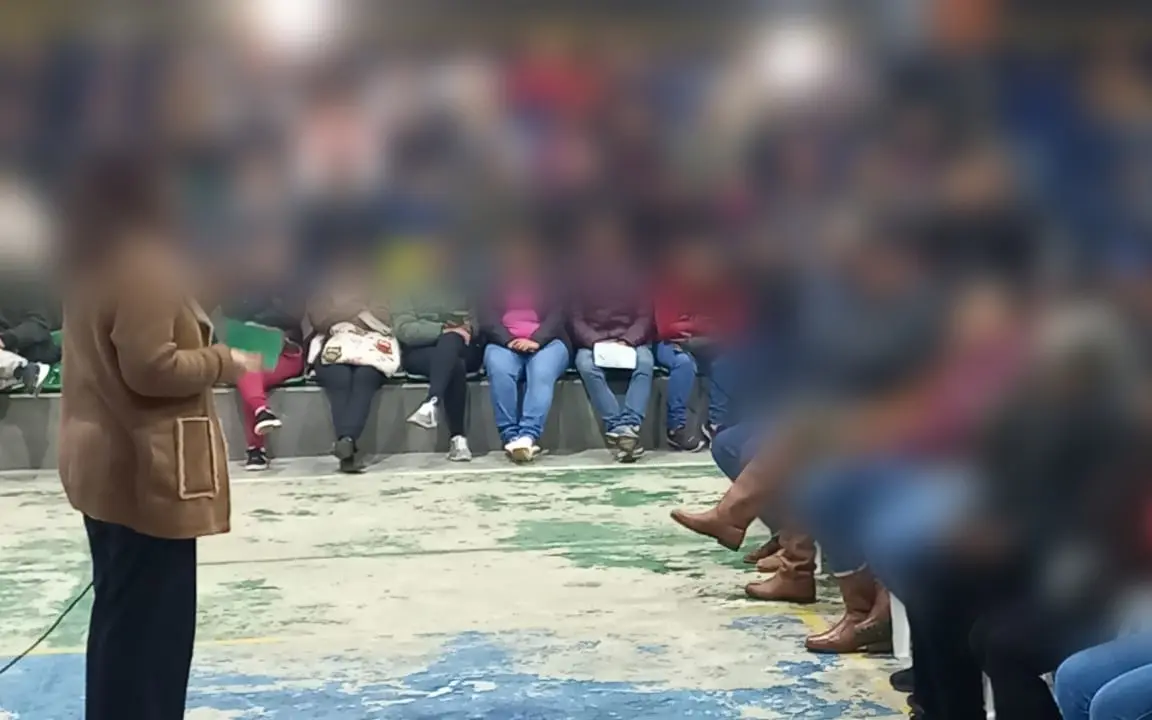
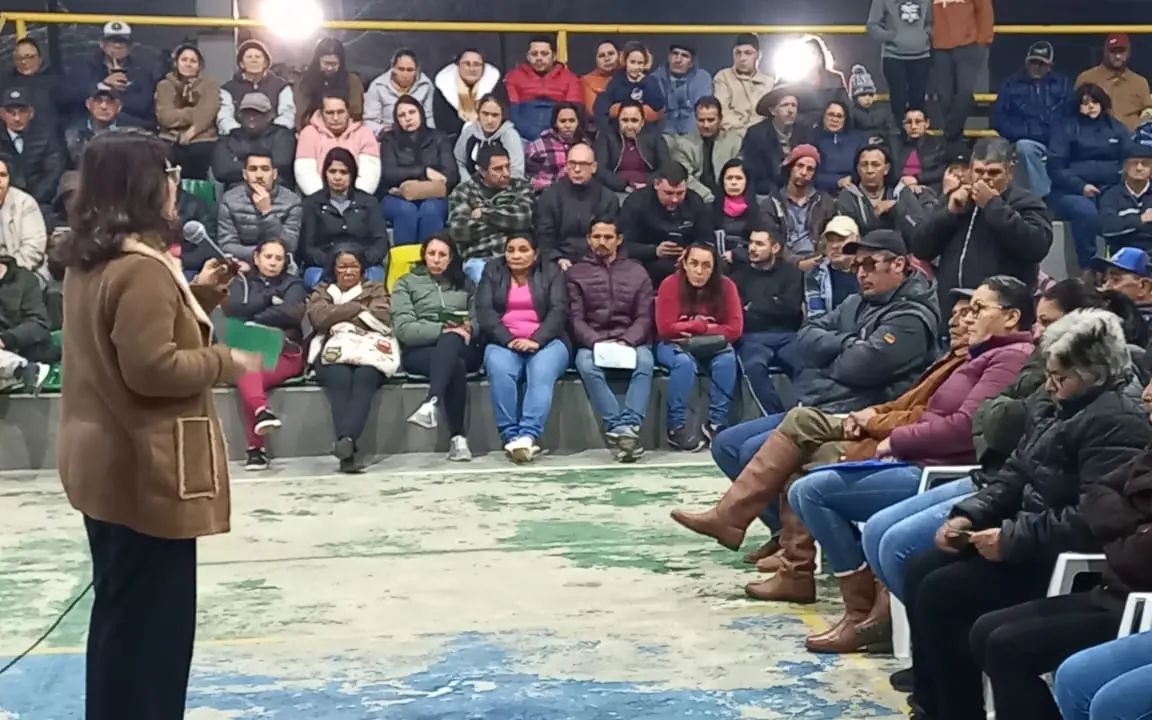
Portfólio: foto do Bairro Frigorífico sem desfoque
Claude-Session: https://claude.ai/code/session_01PN8HWynfHnkAmHP4rgqqho

diff --git a/index.html b/index.html
@@ -422,7 +422,7 @@
           </article>
 
           <article class="pf-card" data-cat="reurb">
-            <img class="pf-media" src="assets/img/bairro-frigorifico-640.webp" srcset="assets/img/bairro-frigorifico-640.webp 640w, assets/img/bairro-frigorifico-960.webp 960w" sizes="(max-width: 640px) 100vw, (max-width: 980px) 50vw, 380px" width="960" height="600" alt="Assembleia com os moradores do Bairro Frigorífico em ginásio, com a equipe apresentando o projeto (rostos desfocados)" loading="lazy" decoding="async">
+            <img class="pf-media" src="assets/img/bairro-frigorifico-640.webp" srcset="assets/img/bairro-frigorifico-640.webp 640w, assets/img/bairro-frigorifico-960.webp 960w" sizes="(max-width: 640px) 100vw, (max-width: 980px) 50vw, 380px" width="960" height="600" alt="Assembleia com os moradores do Bairro Frigorífico em ginásio, com a equipe apresentando o projeto" loading="lazy" decoding="async">
             <div class="pf-body">
               <span class="pf-tag">REURB</span>
               <h3>Bairro Frigorífico</h3>
